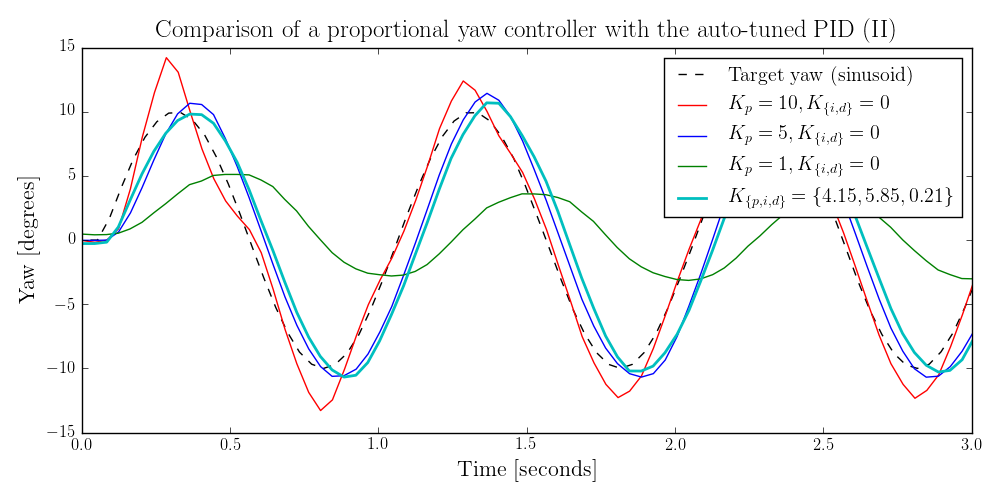
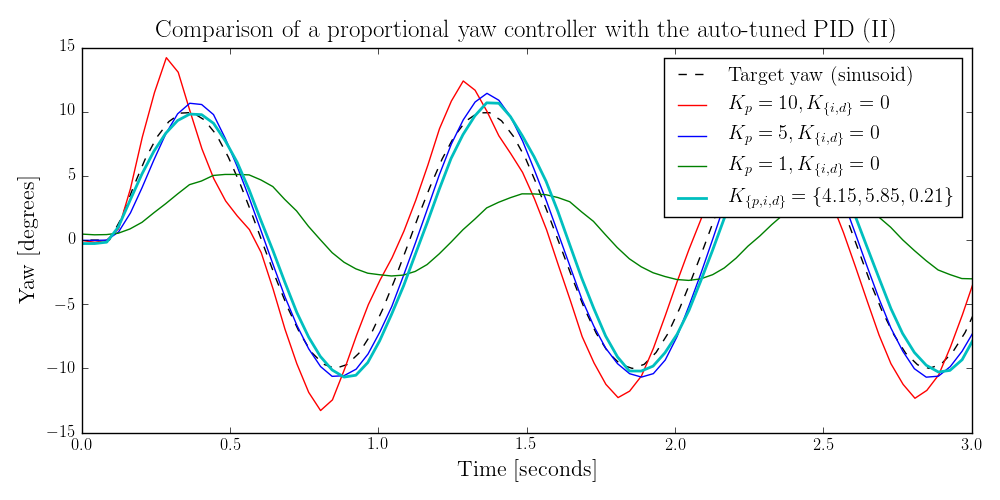
Aligned time scales

Changed region(s): [[0.899, 0.72, 0.93, 0.75], [0.465, 0.21, 0.496, 0.24]]

diff --git a/Software/PID_calib/response_sinusoid/plot_pid_response.py b/Software/PID_calib/response_sinusoid/plot_pid_response.py
@@ -34,7 +34,7 @@ pid_response4[:,0] -= pid_response4[0,0]
 
 f, ax = subplots(1,figsize=(10,5))
 toffset = 2000
-ax.plot((pid_response4[:,0]-2000)/1000.+0.05,pid_response4[:,2]*180./np.pi,'--k')
+ax.plot((pid_response4[:,0]-2000)/1000.+0.09,pid_response4[:,2]*180./np.pi,'--k')
 ax.plot((pid_response3[:,0]-2000)/1000.,pid_response3[:,1]*180./np.pi,'r')
 ax.plot((pid_response2[:,0]-2000)/1000.,pid_response2[:,1]*180./np.pi,'b')
 ax.plot((pid_response1[:,0]-2000)/1000.,pid_response1[:,1]*180./np.pi,'g')
